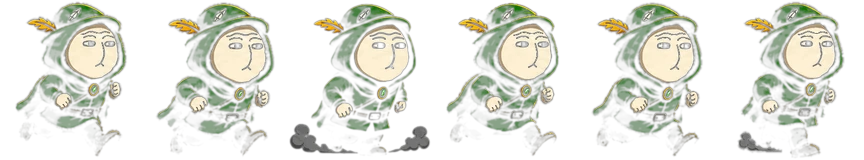
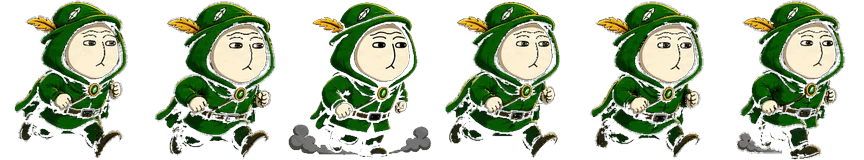
Hood Runner: fix character clarity and switch scene to cream
Root cause of the 'blurry' character: the original background-removal pass
used a global luminance threshold, which doesn't distinguish 'dark
background' from 'dark parts of the character' -- the robin hood's green
cloak has plenty of pixels in that same dark range, so large parts of it
were getting partial alpha, showing up faded/mottled/moth-eaten once
composited.

Reprocessed both character-run.webp and character-jump.webp from the
original GIFs using a flood-fill from the frame border instead: only
background pixels *connected to the edge* become transparent, so no
matter how dark a pixel inside the character is, it stays fully opaque
unless it's actually part of the background region. Character is fully
crisp now. (jump frame aspect changed slightly, 155/160 -> 157/160, from
the new union bbox -- updated in dino-game.js.)

Also recolored background.webp from black/near-black to a cream/parchment
tone (luminance-remapped, so the grid + price-axis labels are preserved,
just re-inked dark-green-on-cream instead of green-on-black). Follow-on
contrast fixes since text/lines tuned for the old dark backdrop would
otherwise wash out on the new light one:
- #hoodGameCanvas fallback background -> cream
- HUD score/best text -> dark ink with a light halo instead of cream-on-dark
- ground line and '+score' popup -> dark ink/amber instead of bright green/gold
- idle/game-over overlay scrim -> cream instead of dark green, with dark text
[…]

diff --git a/styles.css b/styles.css
@@ -831,26 +831,26 @@
     box-shadow:0 20px 40px -16px rgba(0,0,0,0.5);
   }
   #hoodGameCanvas{
-    display:block; width:100%; height:auto; background:var(--bg);
+    display:block; width:100%; height:auto; background:var(--cream2);
     touch-action:manipulation; cursor:pointer;
   }
   .hood-game-hud{
     position:absolute; top:12px; left:0; right:0;
     display:flex; justify-content:space-between; padding:0 16px;
     font-family:'IBM Plex Mono',monospace; font-weight:600; font-size:14px;
-    color:var(--cream2); text-shadow:0 2px 4px rgba(0,0,0,0.6);
+    color:#20331c; text-shadow:0 1px 2px rgba(241,234,220,0.85);
     pointer-events:none;
   }
-  #hoodGameBest{color:var(--gold);}
+  #hoodGameBest{color:#8a6a16;}
   .hood-game-overlay{
     position:absolute; inset:0; display:flex; align-items:center; justify-content:center;
     text-align:center; padding:20px;
-    background:rgba(12,23,16,0.72);
+    background:rgba(241,234,220,0.88);
     pointer-events:none;
   }
   .hood-game-overlay[hidden]{display:none;}
   .hood-game-overlay p{
-    font-family:'IM Fell English',serif; font-size:19px; color:var(--cream2);
+    font-family:'IM Fell English',serif; font-size:19px; color:#20331c;
     max-width:26ch; margin:0;
   }
 

diff --git a/js/dino-game.js b/js/dino-game.js
@@ -328,8 +328,8 @@ if (canvas) {
       x += bgW;
     }
 
-    // ground line
-    ctx.strokeStyle = 'rgba(111,207,58,0.35)';
+    // ground line -- dark ink tone so it still reads against the cream backdrop
+    ctx.strokeStyle = 'rgba(47,77,43,0.6)';
     ctx.lineWidth = 2;
     ctx.beginPath();
     ctx.moveTo(0, GROUND_Y + 1);
@@ -349,7 +349,7 @@ if (canvas) {
     if (player.grounded) {
       drawFrame(SPRITES.run, state === STATE.PLAYING ? player.runFrame : 0, player.x, player.y, GROUND_HEIGHT * (144 / 160), GROUND_HEIGHT);
     } else {
-      drawFrame(SPRITES.jump, player.jumpFrame, player.x, player.y, GROUND_HEIGHT * (155 / 160), GROUND_HEIGHT);
+      drawFrame(SPRITES.jump, player.jumpFrame, player.x, player.y, GROUND_HEIGHT * (157 / 160), GROUND_HEIGHT);
     }
 
     // "+score" popups float up and fade out over their lifetime
@@ -359,7 +359,7 @@ if (canvas) {
       ctx.globalAlpha = Math.max(0, 1 - t);
       ctx.font = "700 20px 'IBM Plex Mono', monospace";
       ctx.textAlign = 'center';
-      ctx.fillStyle = '#f4c744';
+      ctx.fillStyle = '#8a6a16';
       ctx.fillText(p.text, p.x, p.y - t * 42);
       ctx.restore();
     });
